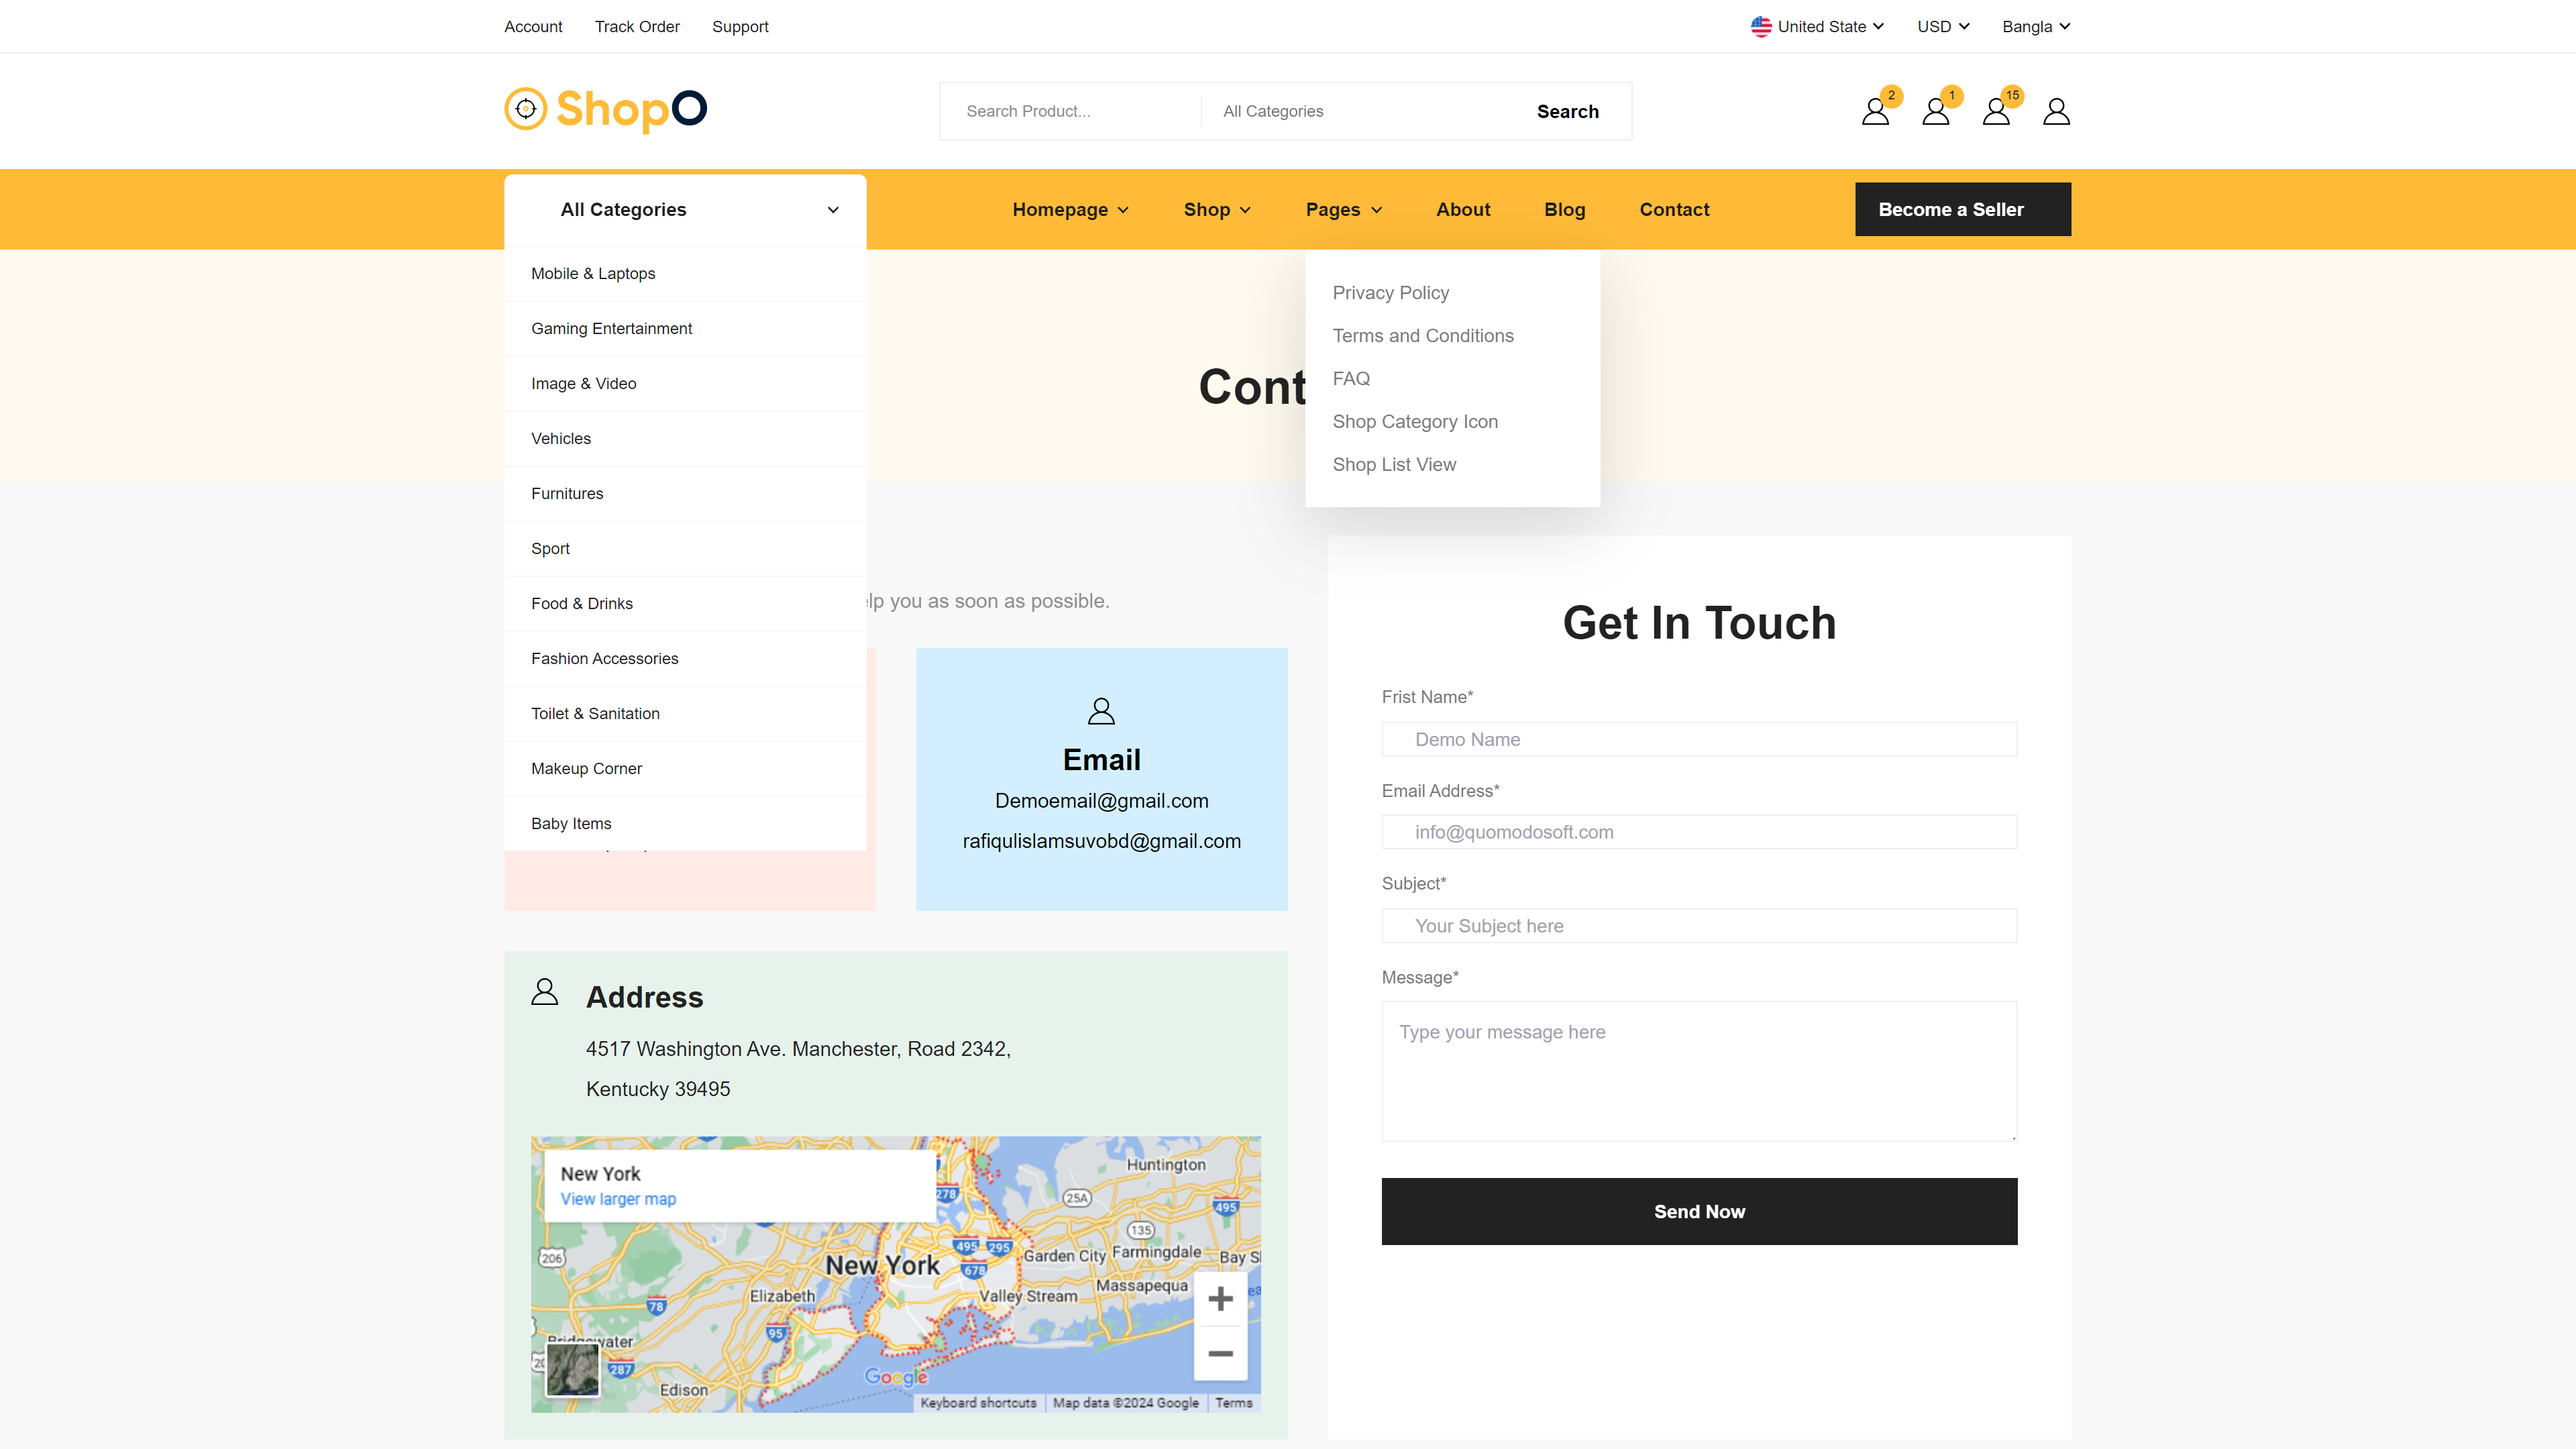
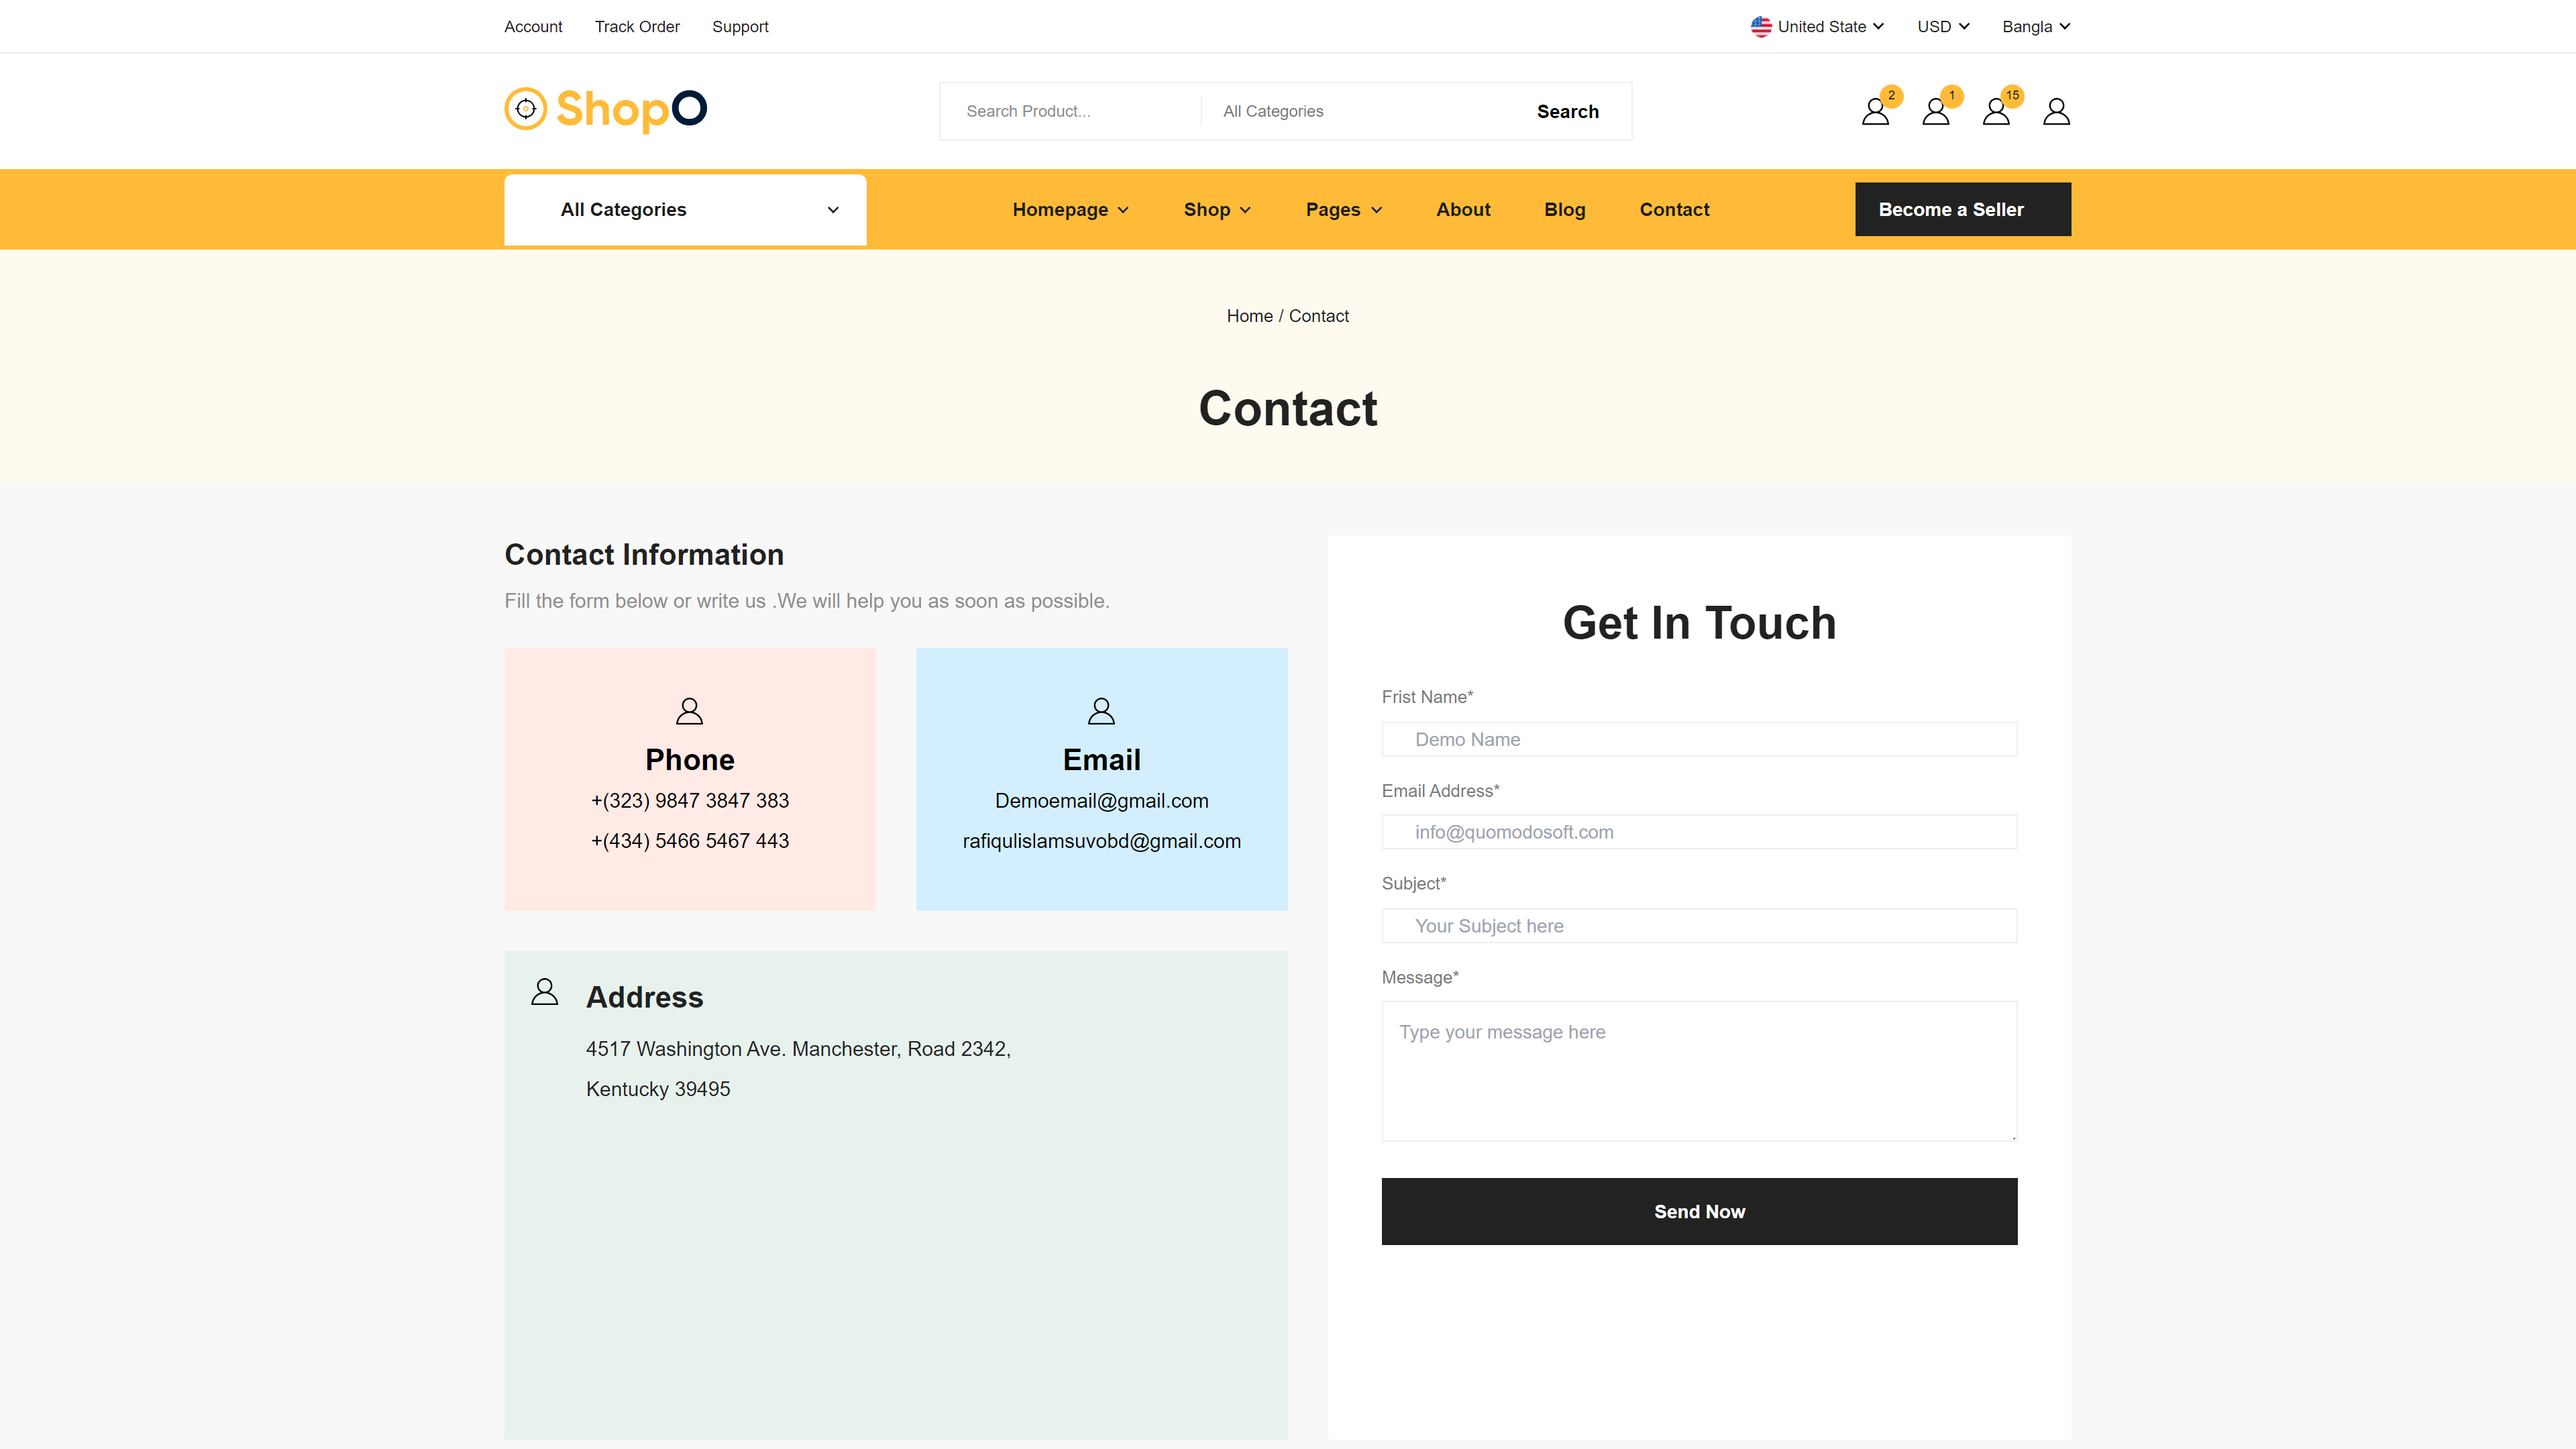
la5

diff --git a/src/components/PageTitle.jsx b/src/components/PageTitle.jsx
@@ -3,11 +3,11 @@ import BreadcrumbCom from "./BreadcrumbCom";
 export default function PageTitle({ title, breadcrumb = [] }) {
   return (
     <div className="page-title-wrapper bg-[#FFFAEF] w-full h-[173px] py-10 ">
-      <div className="container-x mx-auto">
-        <div className="mb-5">
+      <div className=" flex justify-center flex-col items-center">
+        <div className="mb-4">
           <BreadcrumbCom paths={breadcrumb} />
         </div>
-        <div className="flex justify-center">
+        <div className="">
           <h1 className="text-4xl font-semibold text-qblack">{title}</h1>
         </div>
       </div>
